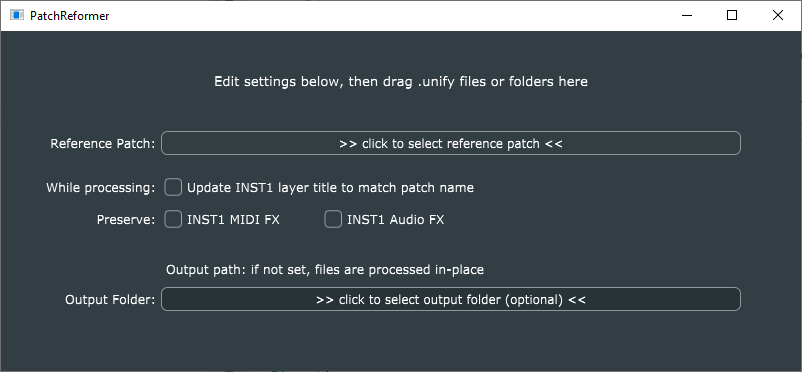
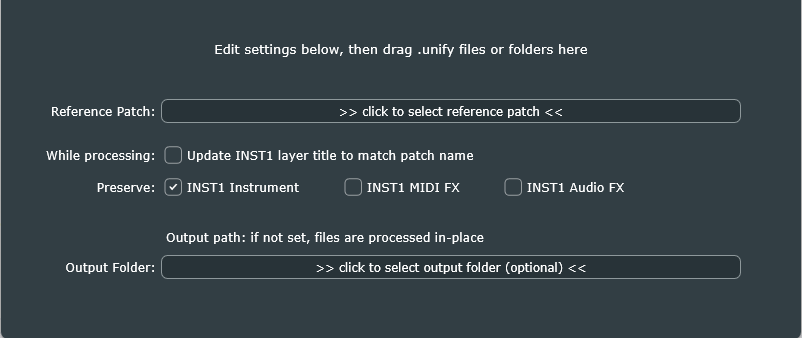
PatchReformer: add new "preserve INST1 INST plug-in" checkbox
The old version assumed that the main instrument plug-in used in the input patches is identical to that in the reference patch. This change allows using a reference patch built with a different instrument plug-in (including just a difference of format e.g. VST/VST3, or a completely different instrument).

diff --git a/PatchReformer/Source/PatchConverter.cpp b/PatchReformer/Source/PatchConverter.cpp
@@ -2,6 +2,7 @@
 
 PatchConverter::PatchConverter()
     : updateLayer1Title(false)
+    , saveInstPlugin(true)
     , saveMidiFx(false), saveAudioFx(false)
 {
 }
@@ -65,9 +66,18 @@ void PatchConverter::processFile(File file, int& fileCount)
         auto outInst1Xml = outputPatchXml->getChildByName("Layer")->getChildByName("Instrument");
         outInst1Xml->setAttribute("stateInformation", inst1State);
         outInst1Xml->setAttribute("currentProgram", inst1Program);
+        if (saveInstPlugin)
+        {
+            // overwrite reference patch's INST1 plugin (this is the default)
+            auto inputPluginXml = inputInst1Xml->getChildByName("PLUGIN");
+            std::unique_ptr<XmlElement> pluginXml(new XmlElement(*inputPluginXml));
+            auto refPluginXml = outInst1Xml->getChildByName("PLUGIN");
+            outInst1Xml->replaceChildElement(refPluginXml, pluginXml.release());
+        }
 
         if (saveMidiFx)
         {
+            // overwrite reference patch's INST1 MIDI insert effects (usually NOT wanted)
             XmlElement* inputMidiInsertsXml = inputPatchXml->getChildByName("Layer")->getChildByName("MidiInserts");
             std::unique_ptr<XmlElement> savedMidiInsertsXml(new XmlElement(*inputMidiInsertsXml));  // deep copy
             XmlElement* outputMidiInsertsXml = outputPatchXml->getChildByName("Layer")->getChildByName("MidiInserts");
@@ -76,6 +86,7 @@ void PatchConverter::processFile(File file, int& fileCount)
 
         if (saveAudioFx)
         {
+            // overwrite reference patch's INST1 audio insert effects (usually NOT wanted)
             XmlElement* inputAudioInsertsXml = inputPatchXml->getChildByName("Layer")->getChildByName("AudioInserts");
             std::unique_ptr<XmlElement> savedAudioInsertsXml(new XmlElement(*inputAudioInsertsXml)); // deep copy
             XmlElement* outputAudioInsertsXml = outputPatchXml->getChildByName("Layer")->getChildByName("AudioInserts");

diff --git a/PatchReformer/Source/MainComponent.cpp b/PatchReformer/Source/MainComponent.cpp
@@ -36,14 +36,26 @@ MainComponent::MainComponent()
 
 	preserveLabel.setText("Preserve:", dontSendNotification);
 	preserveLabel.setJustificationType(Justification::right);
-	preserveLabel.attachToComponent(&saveMidiFxToggle, true);
+	preserveLabel.attachToComponent(&saveInstToggle, true);
+
+	saveInstToggle.setButtonText("INST1 Instrument");
+	saveInstToggle.setToggleState(patchConverter.saveInstPlugin, dontSendNotification);
+	saveInstToggle.onStateChange = [this]()
+		{
+			patchConverter.saveInstPlugin = saveInstToggle.getToggleState();
+		};
+	addAndMakeVisible(saveInstToggle);
+
 	saveMidiFxToggle.setButtonText("INST1 MIDI FX");
+	saveMidiFxToggle.setToggleState(patchConverter.saveMidiFx, dontSendNotification);
 	saveMidiFxToggle.onStateChange = [this]()
 	{
 		patchConverter.saveMidiFx = saveMidiFxToggle.getToggleState();
 	};
 	addAndMakeVisible(saveMidiFxToggle);
+
 	saveAudioFxToggle.setButtonText("INST1 Audio FX");
+	saveAudioFxToggle.setToggleState(patchConverter.saveAudioFx, dontSendNotification);
 	saveAudioFxToggle.onStateChange = [this]()
 	{
 		patchConverter.saveAudioFx = saveAudioFxToggle.getToggleState();
@@ -86,6 +98,7 @@ void MainComponent::resized()
 	updateLayer1TitleToggle.setBounds(bounds.removeFromTop(24));
 	bounds.removeFromTop(8);
 	auto row = bounds.removeFromTop(24);
+	saveInstToggle.setBounds(row.removeFromLeft(180));
 	saveMidiFxToggle.setBounds(row.removeFromLeft(160));
 	saveAudioFxToggle.setBounds(row.removeFromLeft(160));
 	bounds.removeFromTop(30);

diff --git a/PatchReformer/Source/MainComponent.h b/PatchReformer/Source/MainComponent.h
@@ -25,7 +25,7 @@ private:
     Label updateL1Label; ToggleButton updateLayer1TitleToggle;
 
     Label preserveLabel;
-    ToggleButton saveMidiFxToggle, saveAudioFxToggle;
+    ToggleButton saveInstToggle, saveMidiFxToggle, saveAudioFxToggle;
 
     Label outputPathLabel;
     TextButton outputFolderPath;    Label outputFolderPathLabel;

diff --git a/PatchReformer/Source/PatchConverter.h b/PatchReformer/Source/PatchConverter.h
@@ -7,7 +7,7 @@ public:
     String referencePatchPath;
     String outputFolderPath;
     bool updateLayer1Title;
-    bool saveMidiFx, saveAudioFx;
+    bool saveInstPlugin, saveMidiFx, saveAudioFx;
 
 public:
     PatchConverter();

diff --git a/PatchReformer/README.md b/PatchReformer/README.md
@@ -1,7 +1,7 @@
 # PatchReformer
 ![screenshot](PatchReformer.png)
 
-This program was split off from an earlier version of *LibraryRenamer*. Its purpose is to "re-form" multiple patches to match the structure of a *reference patch*.
+The *PatchReformer* is a tool to "re-form" multiple patches to match the structure of a *reference patch*.
 
 When preparing Unify patch libraries (especially "unified" libraries), it's common to create all the basic patches first, just ensuring that the first INST layer has the correct instrument plug-in with the correct state. Next, a single patch (usually the first one) is completed by manually adding MIDI or audio insert-effects, AUX and MASTER layers, and macro definitions. This first patch becomes the *reference patch* for the library; every other patch is processed to match the structure of the reference patch, preserving only the state of the first INST layer. This is precisely what *PatchReformer* is for.
 
@@ -11,7 +11,13 @@ I decided to add the "while processing, update INST1 layer title to match patch 
 
 ## "Preserve" checkboxes
 
-John Lehmkuhl requested the option to preserve either MIDI or Audio insert-effects on the INST1 layer, so I added the two "preserve" checkboxes. The code behind these provides useful insight into XML processing with JUCE, specifically when it's necessary to make deep-copies of an XML sub-tree, and lifetime/ownership management of same.
+The program constructs each output patch by starting with a perfect copy of the *reference patch*, then overwrites only the state-data of the INST1 instrument plug-in with that from the input patch.
+
+- If the "INST1 Instrument" box is checked, it also copies the plug-in details (name, vendor, format). This is particularly useful when the reference patch was created with a different plug-in (or different format e.g. VST vs. VST3) then the input patches. This is almost always what you want, so it's on by default.
+- if the "INST1 MIDI FX" box is checked, any MIDI-effect plug-ins on the INST1 layer in the reference patch are replaced with those from the input patch. This is usually not what you want, so it's off by default.
+- if the "INST1 Audio FX" box is checked, any audio-effect plug-ins on the INST1 layer in the reference patch are replaced with those from the input patch. This is usually not what you want, so it's off by default.
+
+The code behind these provides useful insight into XML processing with JUCE, specifically when it's necessary to make deep-copies of an XML sub-tree, and lifetime/ownership management of same.
 
 ## Using the program
 
@@ -22,7 +28,8 @@ John Lehmkuhl requested the option to preserve either MIDI or Audio insert-effec
   - DO NOT drag/drop the reference patch file into the file-open dialog on Windows. Instead, navigate to wherever it is, and then double-click the reference patch file icon to select it.
   - When you're done, the button text should change to the full path to the reference patch.
 - If you want the INST1 layer title in all patches to be changed to match the patch name, check the box.
-- If you want to preserve either the MIDI effects chain, or the Audio effects chain, or both, on the INST1 layer in all patches, check the appropriate boxes.
+- Keep the "INST1 Instrument" box checked unless you really know what you're doing. (Only consider turning it off if the exact same INST1 instrument plug-in is used on the reference and all input patches.)
+- If you want to preserve either the MIDI effects chain, or the Audio effects chain, or both, on the INST1 layer in all of your input patches (you probably don't), check the appropriate boxes.
 - Drag/drop any number of *.unify* patch files, OR their containing folder, into the program window to begin processing those files.
 - When processing is done, the "Edit settings below..." text at the top will change to indicate the number of files that were processed.
 
